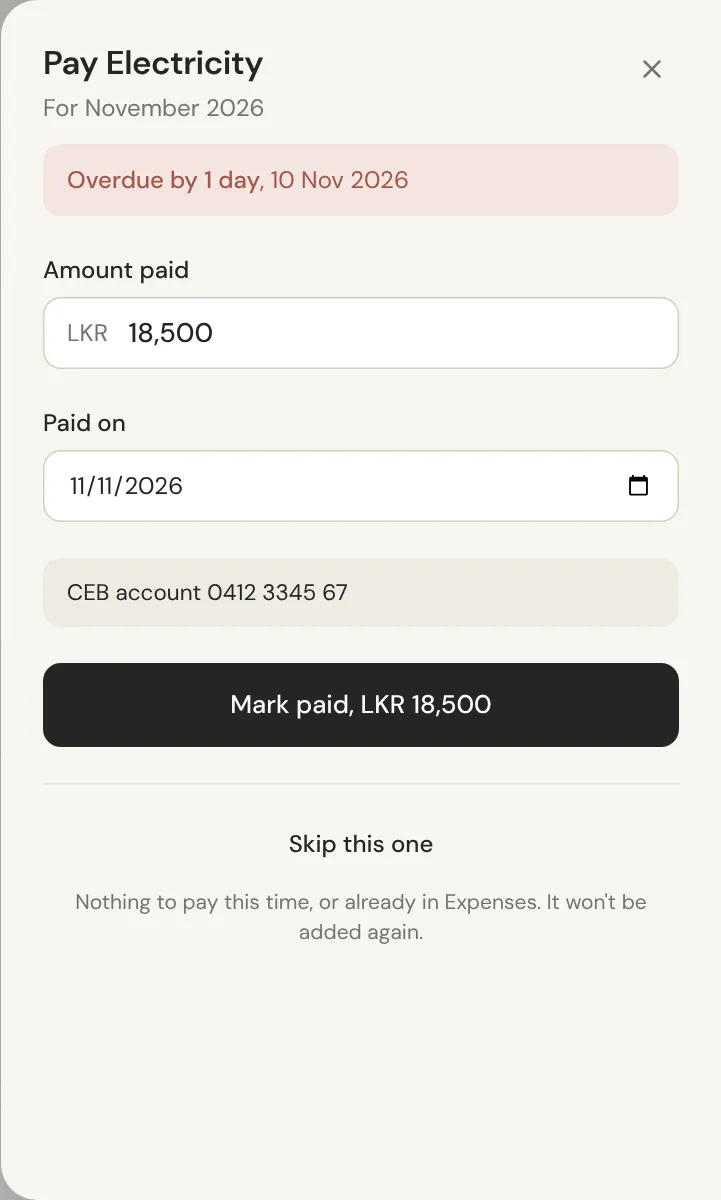
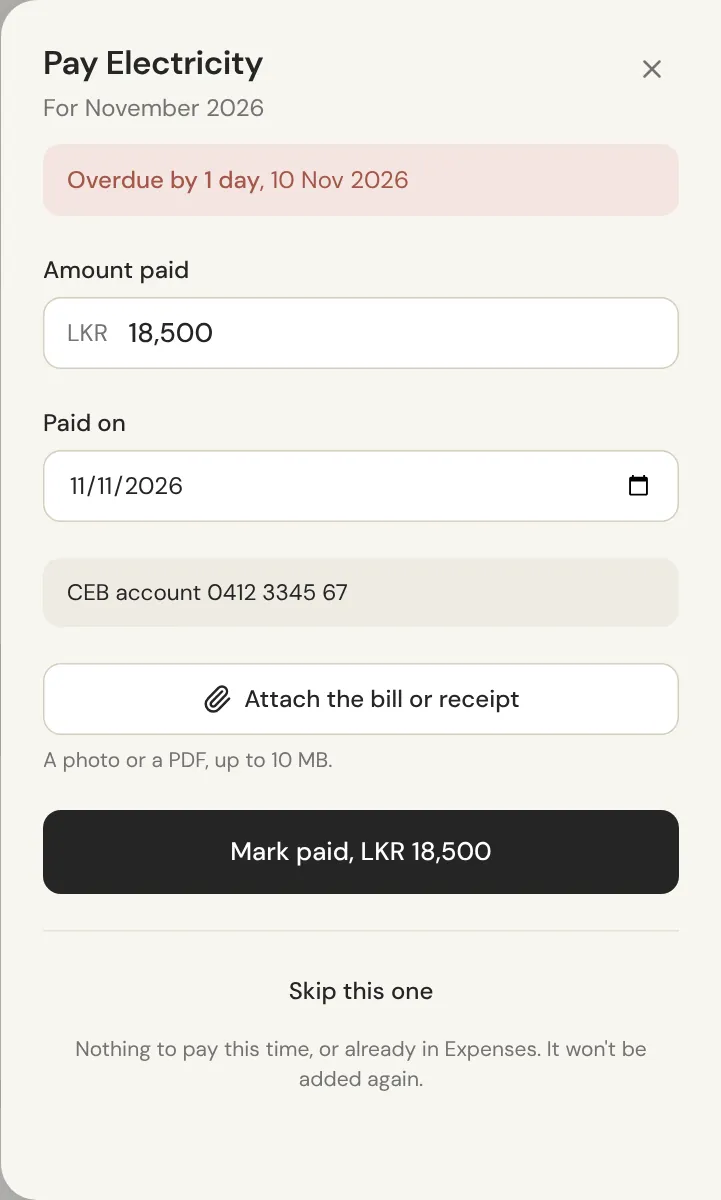
updated docs

Changed region(s): [[0.061, 0.555, 0.9459, 0.8325], [0.0915, 0.8633, 0.7628, 0.925], [0.7933, 0.8633, 0.8849, 0.8942]]

diff --git a/components/docs/pages/money.tsx b/components/docs/pages/money.tsx
@@ -22,7 +22,7 @@ export function Expenses() {
               ["What was it for", "For example, Pool cleaning."],
               ["Date", "When you paid. Today unless you change it."],
               ["Note", "Anything worth remembering. Optional."],
-              ["Receipt", "Optional: choose the photo or PDF of the receipt to note its file name with the expense."],
+              ["Receipt", "Optional: press Attach a receipt photo or PDF and choose the file (up to 10 MB). It uploads straight away and is kept privately with the expense."],
             ]}
           />
           <Shot src="expense-add" alt="The Add expense form with amount, category, what it was for, date and note" />
@@ -33,6 +33,11 @@ export function Expenses() {
           </p>
         </Step>
       </Steps>
+
+      <H2>See a receipt again</H2>
+      <p>
+        Expenses with a receipt show its file name under them. Tap it to open the receipt. Only you can open it: the link is made when you tap it and stops working after a few minutes.
+      </p>
 
       <H2>Expenses added for you</H2>
       <ul>
@@ -47,7 +52,7 @@ export function Expenses() {
 
       <H2>Delete an expense</H2>
       <p>
-        Press the bin next to it, then <UI>Delete</UI>. To remove a bill payment, undo it on the Bills page instead, so the bill shows as unpaid again.
+        Press the bin next to it, then <UI>Delete</UI>. Its receipt is deleted too. To remove a bill payment, undo it on the Bills page instead, so the bill shows as unpaid again.
       </p>
     </>
   );
@@ -94,7 +99,11 @@ export function Bills() {
       <H2>Pay a bill</H2>
       <Steps>
         <Step title={<>Press <UI>Pay</UI> next to the bill</>} />
-        <Step title="Check the amount and the date you paid" />
+        <Step title="Check the amount and the date you paid">
+          <p>
+            To keep the bill with the payment, press <UI>Attach the bill or receipt</UI> and choose a photo or PDF. You can open it later from Expenses.
+          </p>
+        </Step>
         <Step title={<>Press <UI>Mark paid</UI></>}>
           <p>
             You&apos;ll see <em>… paid and added to expenses</em>. The bill moves to <strong>Paid lately</strong>, and the next one is scheduled.
